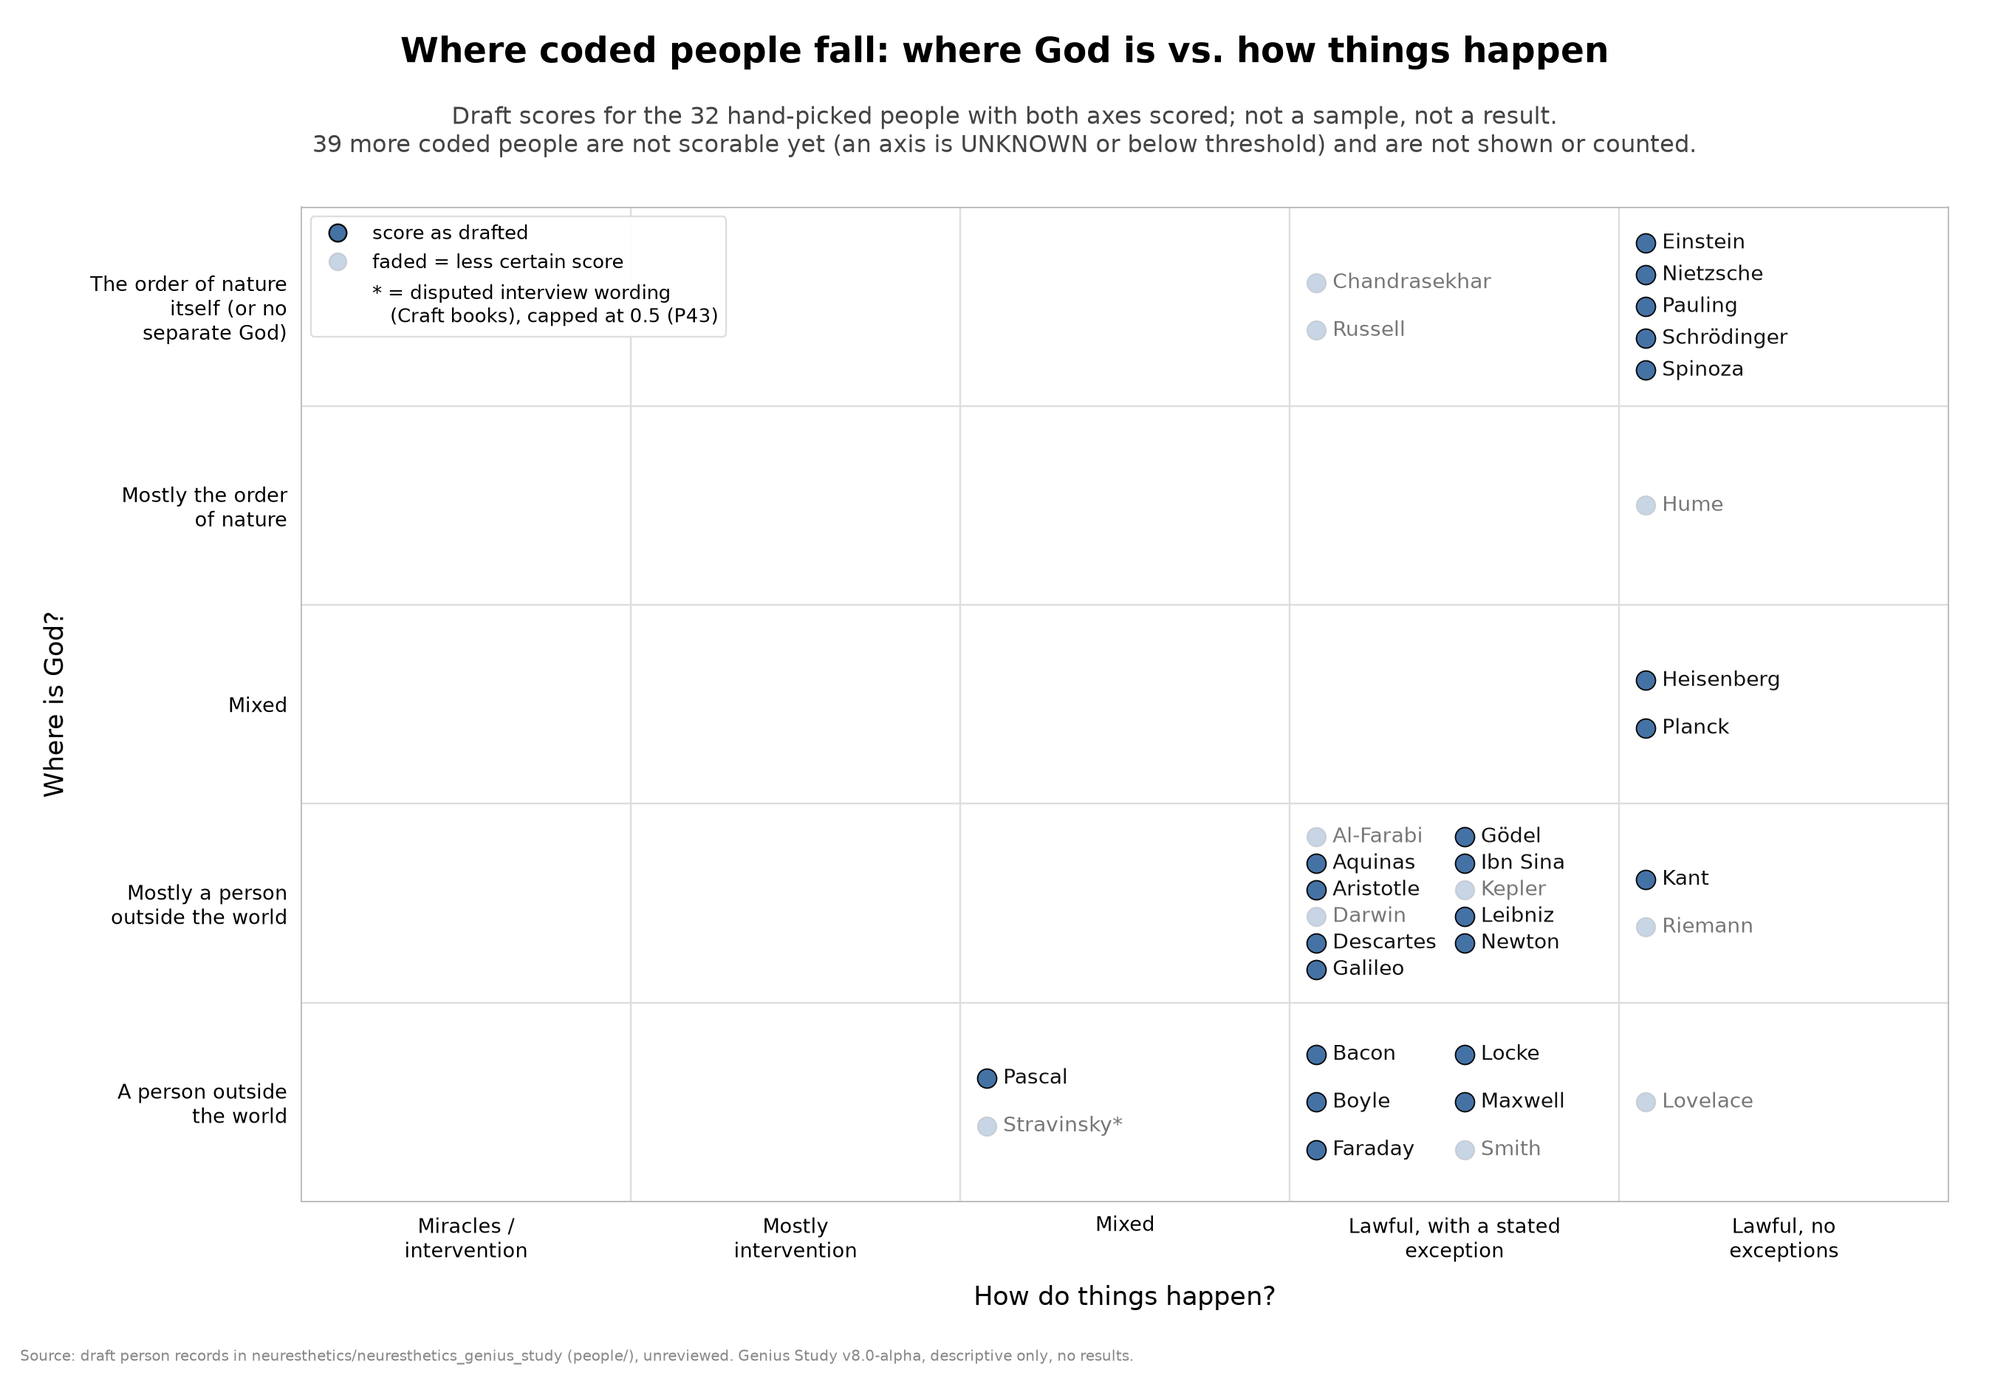
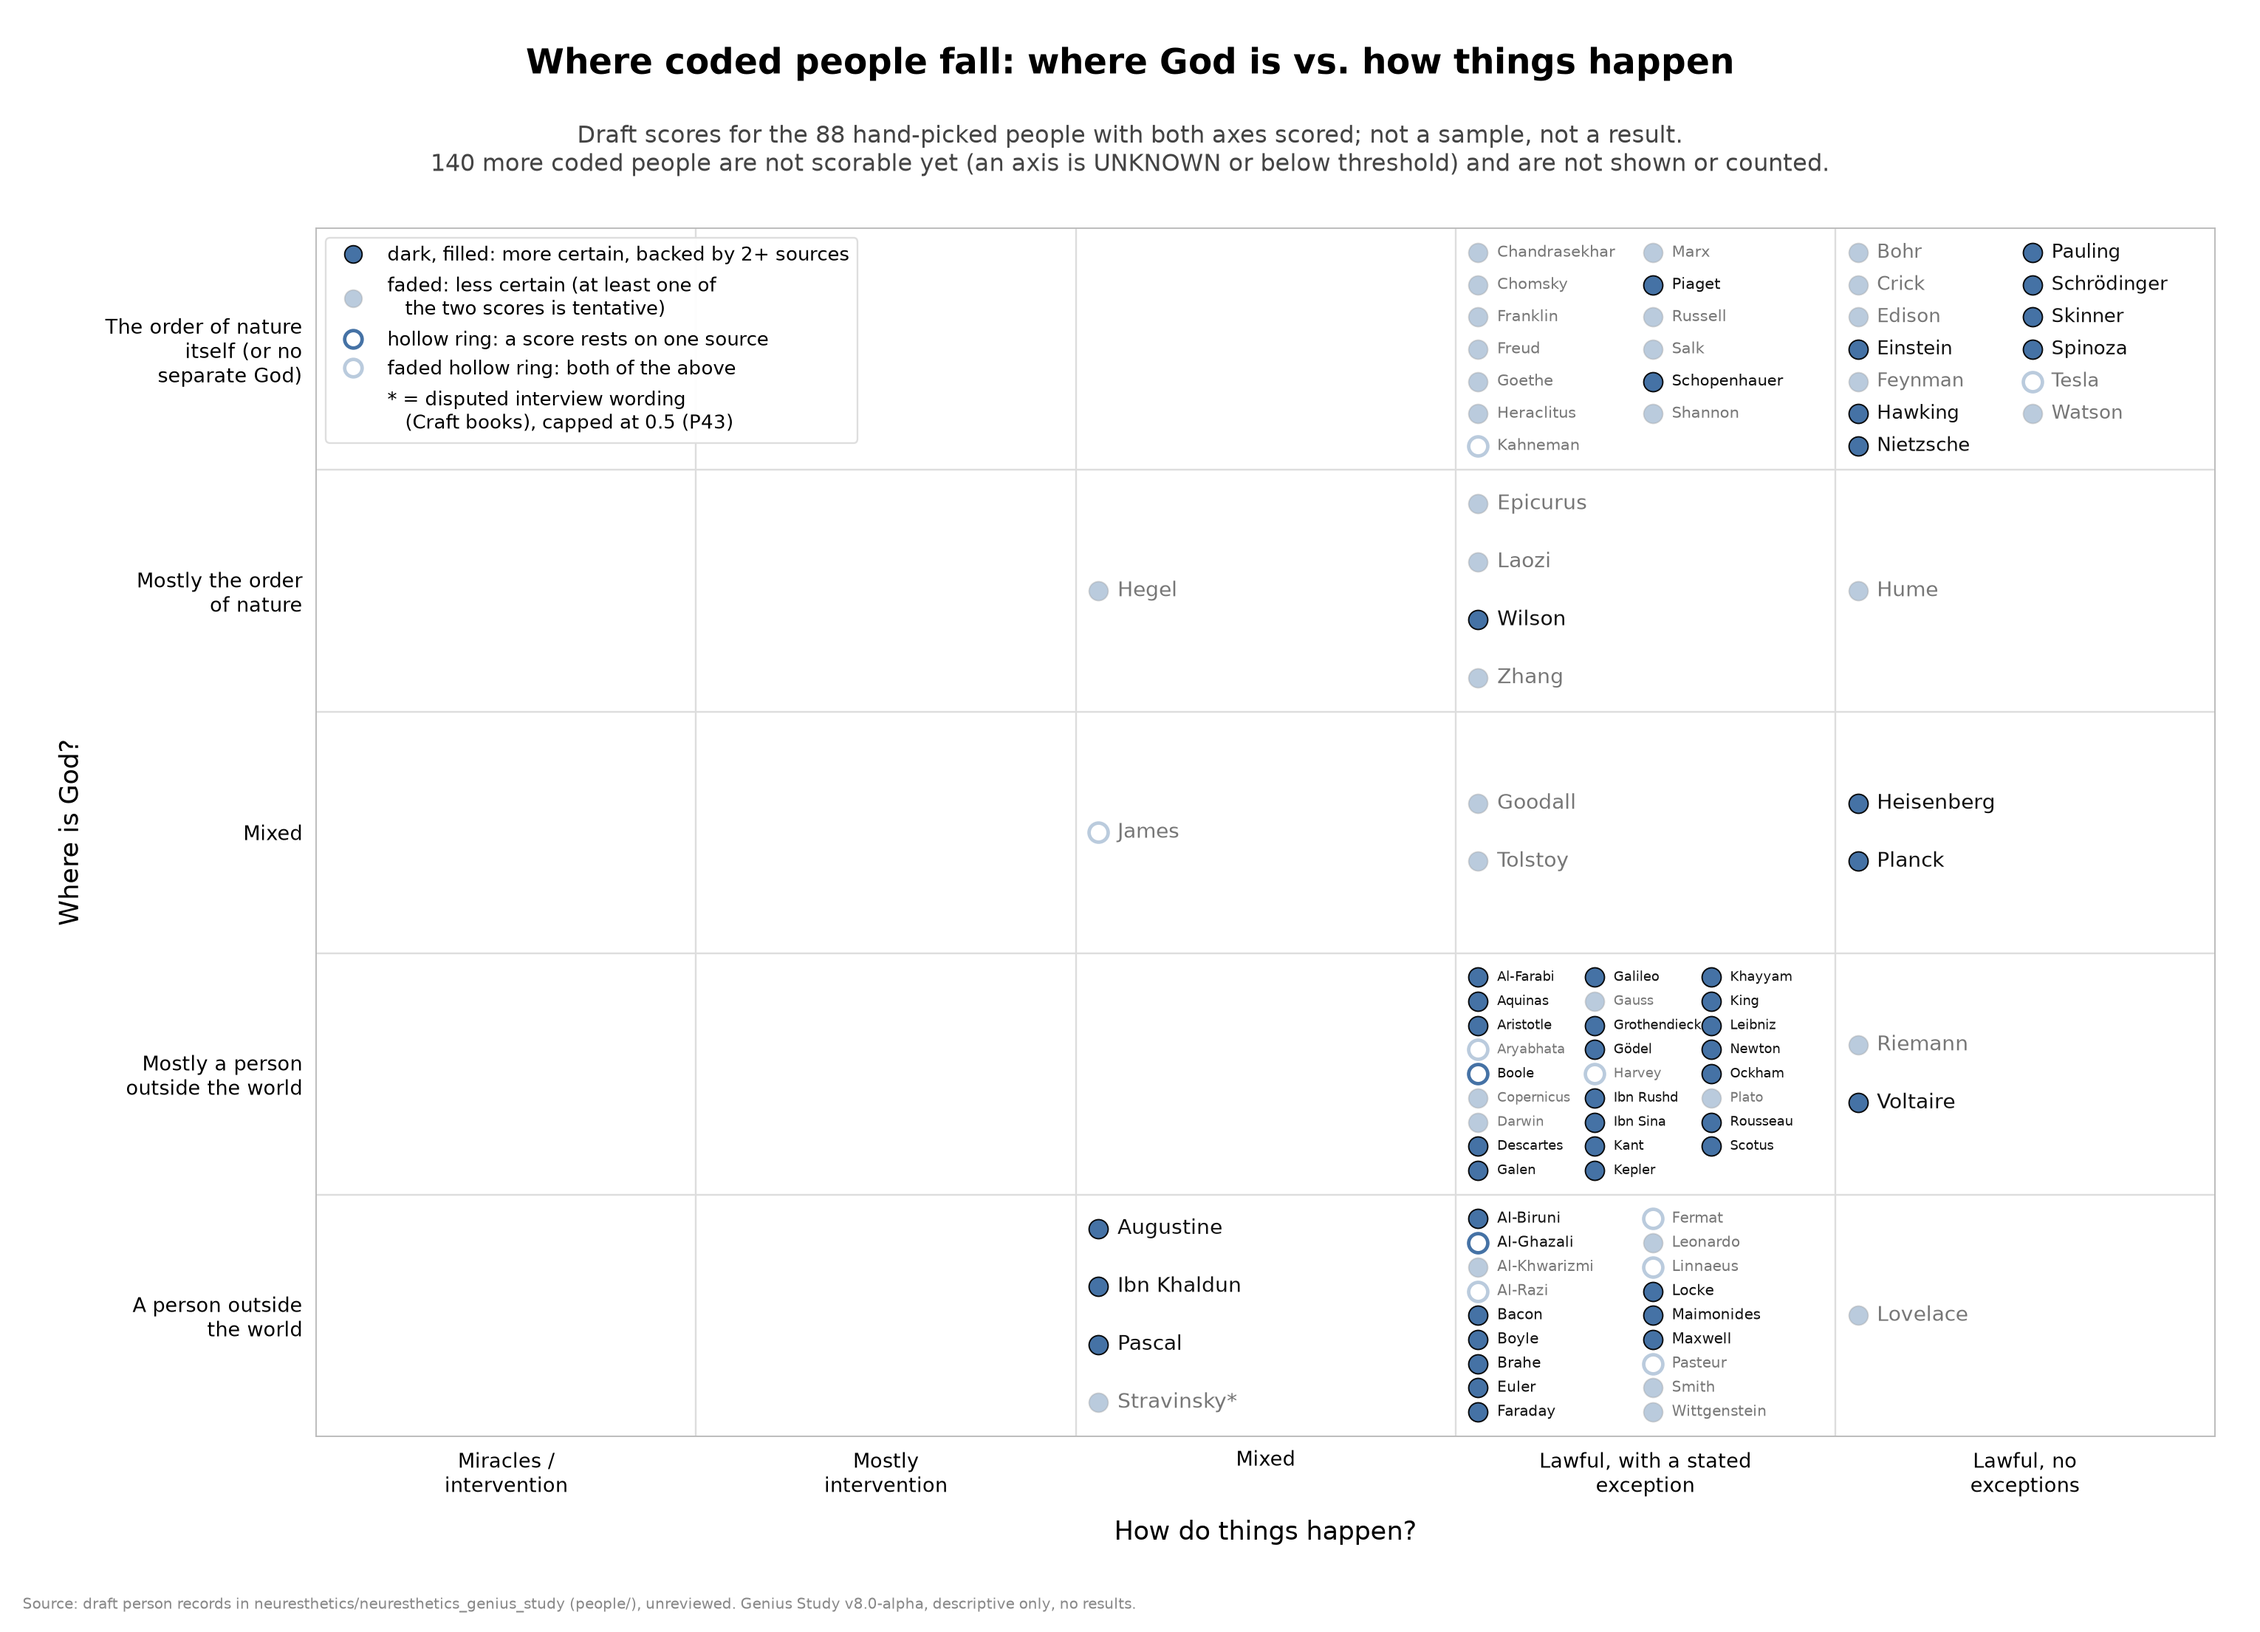
study: refresh charts and status after 228-person deepen

diff --git a/study/index.html b/study/index.html
@@ -71,23 +71,23 @@
         <h2>Status</h2>
         <ul>
           <li><strong>Latest release:</strong> <a href="https://github.com/neuresthetics/neuresthetics_genius_study/releases/tag/v8.0-alpha">v8.0-alpha</a> (prerelease). It has the rebuilt roster, schemas, validators, coding guide and the first draft records. It has no results.</li>
-          <li><strong>Progress:</strong> 71 / 441 core people coded (unreviewed drafts) · 9 / 77 belief systems sourced · 58 / 58 method decisions settled.</li>
-          <li><strong>Next:</strong> stage 3, everyone else named on three or more lists. Batch G (Hypatia, Stravinsky, Bach, Locke) is drafted and has passed its blind audit; next are Marx, Tolstoy, Leonardo da Vinci and Beethoven. The first 12 stage 3 records still need the latest method rulings applied, and seven belief-system stubs are next to be sourced.</li>
+          <li><strong>Progress:</strong> 215 / 441 core people coded (unreviewed drafts) · 66 / 77 belief systems sourced · 65 / 65 method decisions settled.</li>
+          <li><strong>Next:</strong> deepening of all 228 person files is complete; P47–P50 darkness/hollow chart cues are applied; combined charts refreshed. Open for Jason (not blocking): Augustine mid_basin under P4; RQ-Z5-N1 Linnaeus span end 1758. Roster frozen — no new people. Systems pass complete. The revised rubric has not started.</li>
           <li><strong>Latest complete version:</strong> <a href="https://github.com/neuresthetics/neuresthetics_v7">v7.1</a>. v8 rebuilds it from the raw lists.</li>
         </ul>
-        <p><em>Numbers as of 15 Oct 2026. The live table is in the <a href="https://github.com/neuresthetics/neuresthetics_genius_study#progress-status">repo README</a>.</em></p>
+        <p><em>Numbers as of 25 Oct 2026. The live table is in the <a href="https://github.com/neuresthetics/neuresthetics_genius_study#progress-status">repo README</a>.</em></p>
 
         <h2>What the drafts show so far</h2>
-        <p><em>Draft, unreviewed codings. Not results.</em> The 71 coded people are hand-picked, not a sample, so these are observations, not rates.</p>
+        <p><em>Draft, unreviewed codings. Not results.</em> The 215 coded core people are hand-picked, not a sample, so these are observations, not rates.</p>
         <ul>
-          <li>32 of the 71 are scored on both axes in the chart below. The other 39 aren't scorable yet: a source doesn't settle at least one axis, so they're left out rather than guessed.</li>
+          <li>88 of the 215 are scored on both axes in the chart below. The other 140 aren't scorable yet: a source doesn't settle at least one axis, so they're left out rather than guessed.</li>
           <li>966 of the 1,380 roster people (70%) appear on only one of the five model lists. Only 82 appear on all five.</li>
         </ul>
 
         <h2>Figures</h2>
         <figure class="fig fig-dark">
-          <img src="../assets/img/study/people-cause-locus.png?v=4" width="2720" height="1870" loading="lazy" alt="Grid chart of the 32 coded people scored on both axes: where God is (up the chart, from a person outside the world to the order of nature itself) against how things happen (across, from miracles to lawful with no exceptions). Every dot sits in the right three columns; most are in the two lawful columns. Faded dots are less certain scores; Stravinsky, marked with an asterisk, rests on disputed interview wording (the Craft books). No region is marked.">
-          <figcaption>Draft scores for the 32 coded people with both axes scored; 39 more aren't scorable yet and aren't shown. Stravinsky (faded, with an asterisk) rests on disputed interview wording from his books with Robert Craft, capped at 0.5; with Pascal he is one of two people plotted left of the &ldquo;lawful, with a stated exception&rdquo; column. Unreviewed, hand-picked drafts, not a sample: this shows where these people fall, not a pattern or a rate.</figcaption>
+          <img src="../assets/img/study/people-cause-locus.png?v=5" width="2720" height="1870" loading="lazy" alt="Grid chart of the 88 coded people scored on both axes: where God is (up the chart, from a person outside the world to the order of nature itself) against how things happen (across, from miracles to lawful with no exceptions). Every plotted person sits in the right three columns. Darker dots are more certain scores; a hollow ring marks a score that rests on a single source; faded dots are less certain. Stravinsky, marked with an asterisk, rests on disputed interview wording (the Craft books). No region is marked.">
+          <figcaption>Draft scores for the 88 coded people with both axes scored; 140 more aren't scorable yet and aren't shown. Darkness tracks certainty; a hollow ring marks a single-source score. Stravinsky (faded, with an asterisk) rests on disputed interview wording from his books with Robert Craft, capped at 0.5; six plotted people score left of the &ldquo;lawful, with a stated exception&rdquo; column (Augustine, Hegel, Ibn Khaldun, James, Pascal, Stravinsky). Unreviewed, hand-picked drafts, not a sample: this shows where these people fall, not a pattern or a rate. No region is marked.</figcaption>
         </figure>
         <figure class="fig fig-dark">
           <img src="../assets/img/study/roster-list-overlap.png" width="2040" height="884" loading="lazy" alt="Two bar charts. Left: of the 1,380 roster people, 966 are named by only one of the five model lists, 183 by two, 94 by three, 55 by four, and 82 by all five. Right: each list's raw rows next to the roster people it names, for Claude, DeepSeek, Gemini, GPT, and Grok.">
